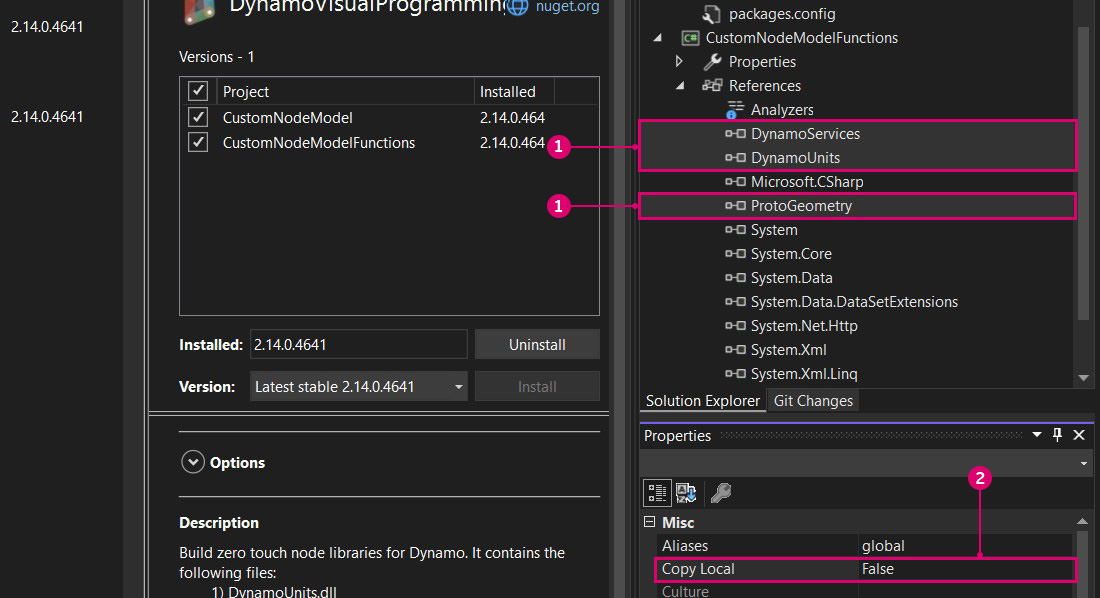
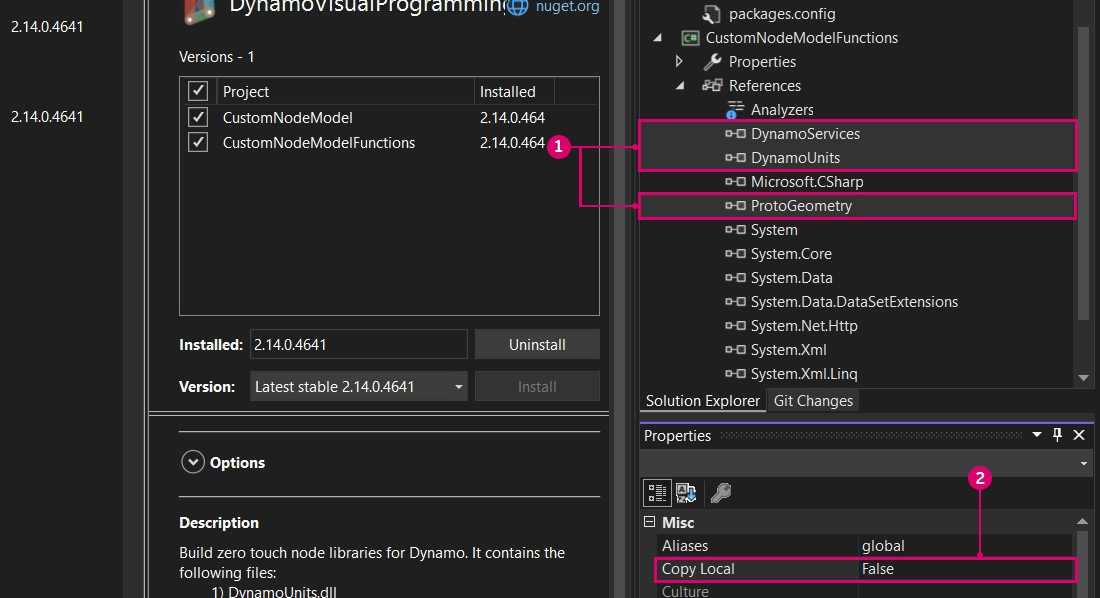
image change and edits
Several images edited and mismatch in code example fixed

diff --git a/11_developer_primer/3_developing_for_dynamo/1-getting-started.md b/11_developer_primer/3_developing_for_dynamo/1-getting-started.md
@@ -92,18 +92,18 @@ When Dynamo loads a .dll, it will expose all public static methods as nodes. Con
 
 > 1. The input is named `inputNumber` based on the method's parameter name.
 > 2. The output is named `double` by default because that is the data type being returned.
-> 3. The node is named `SampleFunctions.MultiplyByTwo` because those are the class and method names.
+> 3. The node is named `SampleFunction.MultiplyByTwo` because those are the class and method names.
 
-In the example above, the extra `SampleFunctions` Create node was created because we did not explicitly provide a constructor and therefore one was automatically created. We can avoid this by creating an empty private constructor in our `SampleFunctions` class.
+In the example above, the extra `SampleFunction` Create node was created because we did not explicitly provide a constructor and therefore one was automatically created. We can avoid this by creating an empty private constructor in our `SampleFunction` class.
 
 ```c#
 namespace MyCustomNode
 {
-    public class SampleFunctions
+    public class SampleFunction
     {
         //The empty private constructor.
         //This will be not imported into Dynamo.
-        private SampleFunctions() { }
+        private SampleFunction() { }
 
         //The public multiplication method. 
         //This will be imported into Dynamo.

diff --git a/11_developer_primer/8_updating_packages/3-updating-your-packages-and-dynamo-libraries-for-dynamo-4x copy.md b/11_developer_primer/8_updating_packages/3-updating-your-packages-and-dynamo-libraries-for-dynamo-4x copy.md
@@ -65,7 +65,6 @@ As Dynamo is now built with the .NET10.0 Runtime, the Dynamo mechanism for icon 
         OwTxD3r4nexvPxELAAAAAElFTkSuQmCC
 </value>
 ```
-This is described in greater detail in [Migrating Node Icons](<4-migrating-node-icons.md>)
 
 **.NET 10 embedded resource format**
 
@@ -74,6 +73,8 @@ This is described in greater detail in [Migrating Node Icons](<4-migrating-node-
   <data name="DefaultCustomNode.Large" type="System.Resources.ResXFileRef, System.Windows.Forms">
     <value>Resources\DefaultCustomNode.Large.png;System.Byte[], mscorlib, Version=4.0.0.0, Culture=neutral, PublicKeyToken=b77a5c561934e089</value>
 ```
+This is described in greater detail in [Migrating Node Icons](<4-migrating-node-icons.md>)
+
 #### Best Practice for Package Authors 
 Best practice is to multi-target your project to both .NET 8 and .NET 10 by modifying your .csproj.
 

diff --git a/9_best_practices/4-managing-your-program.md b/9_best_practices/4-managing-your-program.md
@@ -21,7 +21,7 @@ With some experience, we may be able to "read" the Visual Program by reviewing t
 > 1. Browse to the menu Edit > Create Note
 > 2. Use the keyboard shortcut Ctrl+W
 
-Once the Note is added to the Workspace a text field will pop up allowing us to edit the text in the Note. After they are created, we can edit the Note by double-clicking or right-clicking the Note Node.
+Once the Note is added to the Workspace, a text field will pop up allowing us to edit the text in the Note. After they are created, we can edit the Note by double-clicking or right-clicking the Note Node.
 
 ![](<images/managing your program - notes 02.jpg>)
 

diff --git a/11_developer_primer/3_developing_for_dynamo/2-zero-touch-case-study-grid-node.md b/11_developer_primer/3_developing_for_dynamo/2-zero-touch-case-study-grid-node.md
@@ -16,6 +16,7 @@ To start building the grid node, create a new Visual Studio class library projec
 
 > 1. Choose `Class Library` for the project type
 > 2. Name the project `CustomNodes`
+> 3. Click to create the project
 
 Since we will be creating geometry, we need to reference the appropriate NuGet package. Install the ZeroTouchLibrary package from the NuGet Package Manager. This package is necessary for the `using Autodesk.DesignScript.Geometry;` statement.
 
